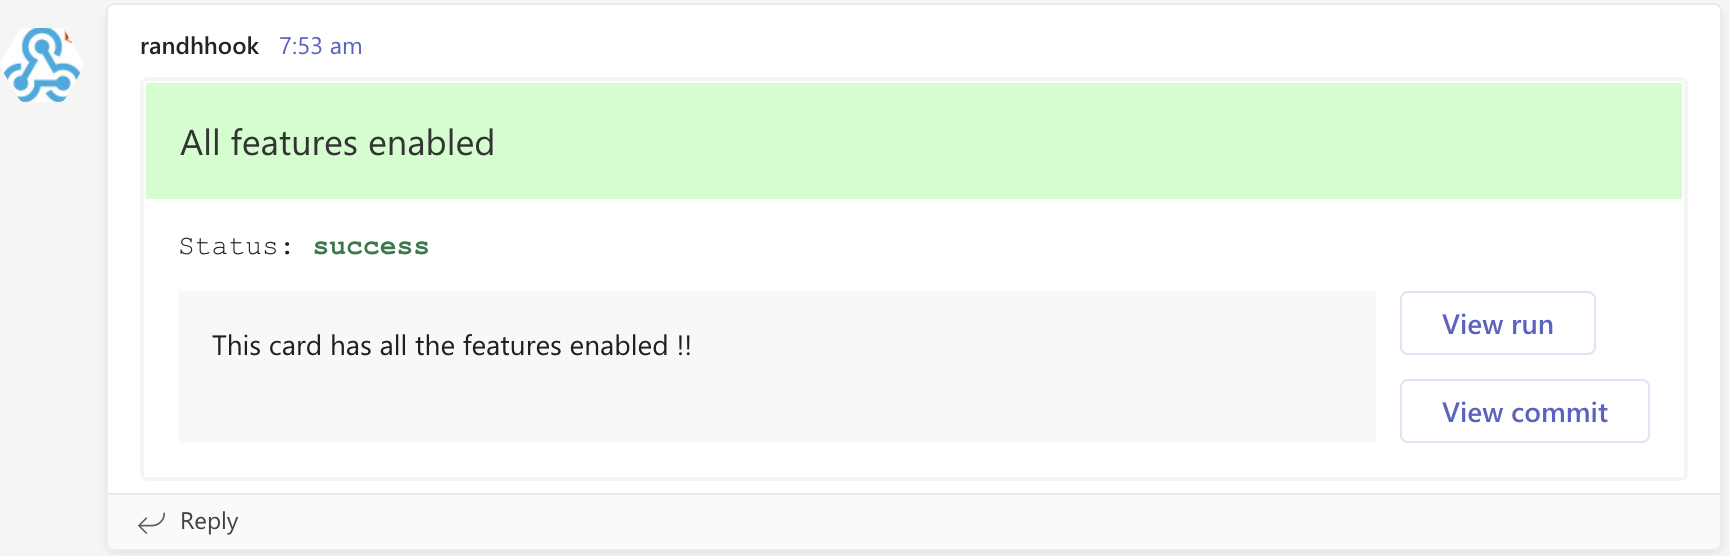
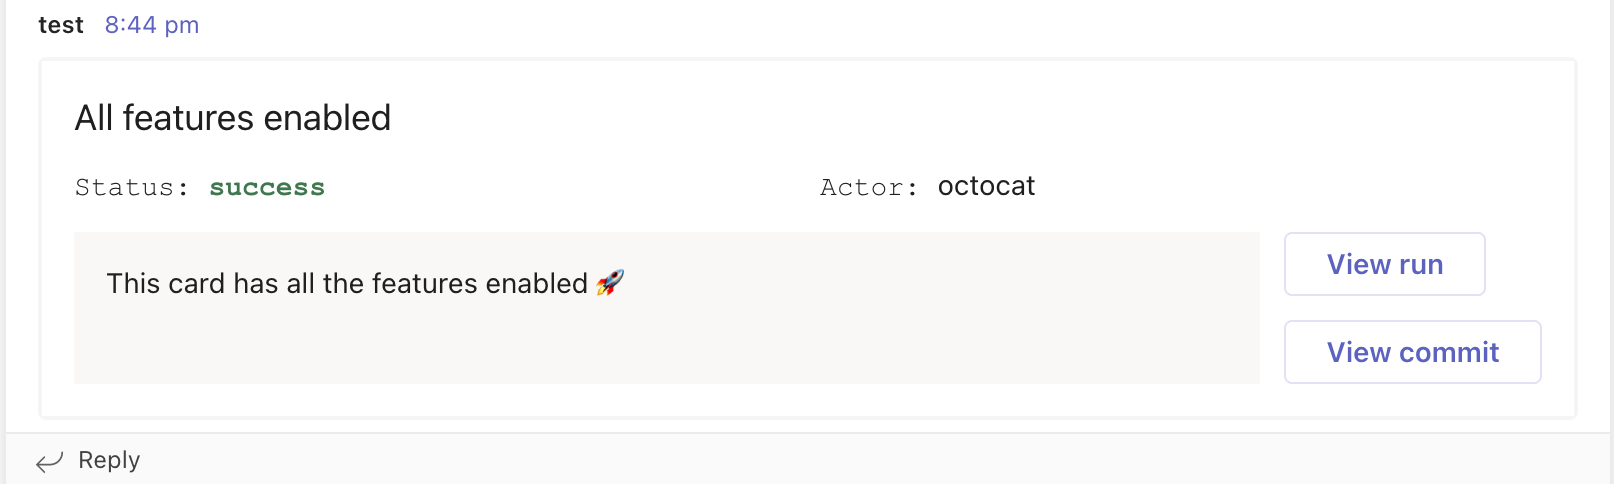
#52 Update README.md for actor label feature

diff --git a/verify/http-request-tests/title-enabled.test.js b/verify/http-request-tests/title-enabled.test.js
@@ -31,14 +31,11 @@ describe('Title enabled', () => {
 
     test('All features enabled', async () => {
         process.env = Object.assign(process.env, {
-            [SHOULD_DISPLAY_VIEW_COMMIT_BUTTON]: 'true',
-            [SHOULD_DISPLAY_VIEW_RUN_BUTTON]: 'true',
             [SHOULD_DISPLAY_ACTOR_LABEL]: 'true',
         });
-        const messageToSend = `This card has all the features enabled 🚀`;
+        const messageToSend = `Title and actor labels are displayed in this card`;
         let response = await main(_teamsIncomingHookUrl, messageToSend, {
-            status: 'success',
-            title: 'All features enabled'
+            title: 'Sample title'
         });
         expect(response).toBe(responseBody);
     });

diff --git a/README.md b/README.md
@@ -1,11 +1,12 @@
 # Send message to Teams
+
 [![Quality](https://github.com/neonidian/teams-notify-build-status/actions/workflows/test.yml/badge.svg)](https://github.com/neonidian/teams-notify-build-status/actions/workflows/test.yml)       [![CodeQL](https://github.com/neonidian/teams-notify-build-status/actions/workflows/codeql-analysis.yml/badge.svg)](https://github.com/neonidian/teams-notify-build-status/actions/workflows/codeql-analysis.yml)
 
 * Send a message to a channel in Teams using webhook
   <img alt="Mimimal message screenshot" src="screenshots/minmal-message.png" width="1904"/>
 
 
-* Additional configuration enables title and status labels, title background color, buttons that re-direct to run and
+* Additional configuration enables title, status and actor name labels, title background color, buttons that re-direct to run and
   commit URLs
   <img alt="Message with status and URL re-direct buttons" src="screenshots/all-features-enabled.png" width="1904"/>
 
@@ -26,8 +27,8 @@ steps:
       message: Workflow run passed !!
 ```
 
-3. Enable title and status labels, title background color by providing the title, status, titleBackgroundColor inputs.
-   Enable 'View run' and 'View commit' buttons using environment variables.
+3. Display title and status labels, title background color by providing the title, status, titleBackgroundColor inputs.
+   Enable 'Actor' label, 'View run' and 'View commit' buttons using environment variables
 
 ```yaml
 steps:
@@ -40,6 +41,7 @@ steps:
       message: >-
         Unit tests have been run for version ${{ steps.versioning.outputs.semver }}       # 'versioning' is the ID of the steps that creates versioning
     env:
+      SHOULD_DISPLAY_ACTOR_LABEL: true
       SHOULD_DISPLAY_VIEW_RUN_BUTTON: true
       SHOULD_DISPLAY_VIEW_COMMIT_BUTTON: true
 ```
@@ -64,6 +66,7 @@ See the actions tab in your GitHub repository for runs of this action! :rocket:
 |-----|-----------------------------------|-------------------|---------------|--------------------------------------------------------------------|
 | 1   | SHOULD_DISPLAY_VIEW_RUN_BUTTON    | 'true' or 'false' | false         | Clicking on this button redirects to the action run page in GitHub |
 | 2   | SHOULD_DISPLAY_VIEW_COMMIT_BUTTON | 'true' or 'false' | false         | Clicking on this button redirects to SHA commit page in GitHub     |
+| 3   | SHOULD_DISPLAY_ACTOR_LABEL        | 'true' or 'false' | false         | Label to display the username of the workflow initiator            |
 
 ## Examples
 
@@ -82,7 +85,8 @@ steps:
       SHOULD_DISPLAY_VIEW_RUN_BUTTON: true
 ```
 
-2. Send message only if some jobs have failed, provide status input, title containing link to repository, enable 'View run' and 'View commit' buttons
+2. Send message only if some jobs have failed, provide status input, title containing link to repository, enable 'View
+   run' and 'View commit' buttons, display actor label by setting the environment variables to `true`
 
 ```yaml
 steps:
@@ -92,21 +96,22 @@ steps:
     with:
       webhookUrl: ${{ secrets.TEAMS_INCOMING_WEBHOOK_URL }}
       title: >-
-         [Repository link](${{ github.server_url }}/${{ github.repository }})
+        [Repository link](${{ github.server_url }}/${{ github.repository }})
       message: Test run failed
       status: ${{ job.status }}
     env:
       SHOULD_DISPLAY_VIEW_RUN_BUTTON: true
       SHOULD_DISPLAY_VIEW_COMMIT_BUTTON: true
+      SHOULD_DISPLAY_ACTOR_LABEL: true
 ```
 
 3. Always send a message even if previous steps have been failed, cancelled or skipped, enable 'View commit' button,
-display title background color based on the current status of the job.
+   display title background color based on the current status of the job.
 
 ```yaml
 steps:
   - uses: neonidian/teams-notify-build-status@v3
-    if: ${{ always() }}
+    if: always()
     with:
       webhookUrl: ${{ secrets.TEAMS_INCOMING_WEBHOOK_URL }}
       message: Workflow has been run
@@ -119,7 +124,10 @@ steps:
 
 1. [Adaptive cards](https://docs.microsoft.com/en-gb/microsoftteams/platform/task-modules-and-cards/cards/cards-reference#adaptive-card)
    interface of Teams has been used for UI
-2. [Actions HTTP client](https://github.com/actions/toolkit/tree/main/packages/http-client) JS library from Actions toolkit has been used for HTTP communication
+2. [Actions HTTP client](https://github.com/actions/toolkit/tree/main/packages/http-client) JS library from Actions
+   toolkit has been used for HTTP communication
+3. GitHub data for constructing workflow run URL, commit URL etc. are fetched via
+   the [default GitHub environment variables](https://docs.github.com/en/actions/learn-github-actions/environment-variables#default-environment-variables)
 
 ## Sample screenshots (Dark mode enabled in Teams)
 
@@ -156,5 +164,9 @@ steps:
    ![title background yellow with title input provided](screenshots/with-title-and-title-bg-color-yellow.png)
 
 
-8. Mobile device screenshot (iOS)
+8. Environment variable `SHOULD_DISPLAY_ACTOR_LABEL` set to `true`; set title
+   ![Should display actor label environment variable is set to true. Title is set](screenshots/with-title-actor-labels.png)
+
+
+9. Mobile device screenshot (iOS)
    ![iOS sample screenshot](screenshots/mobile-screenshot.png)
